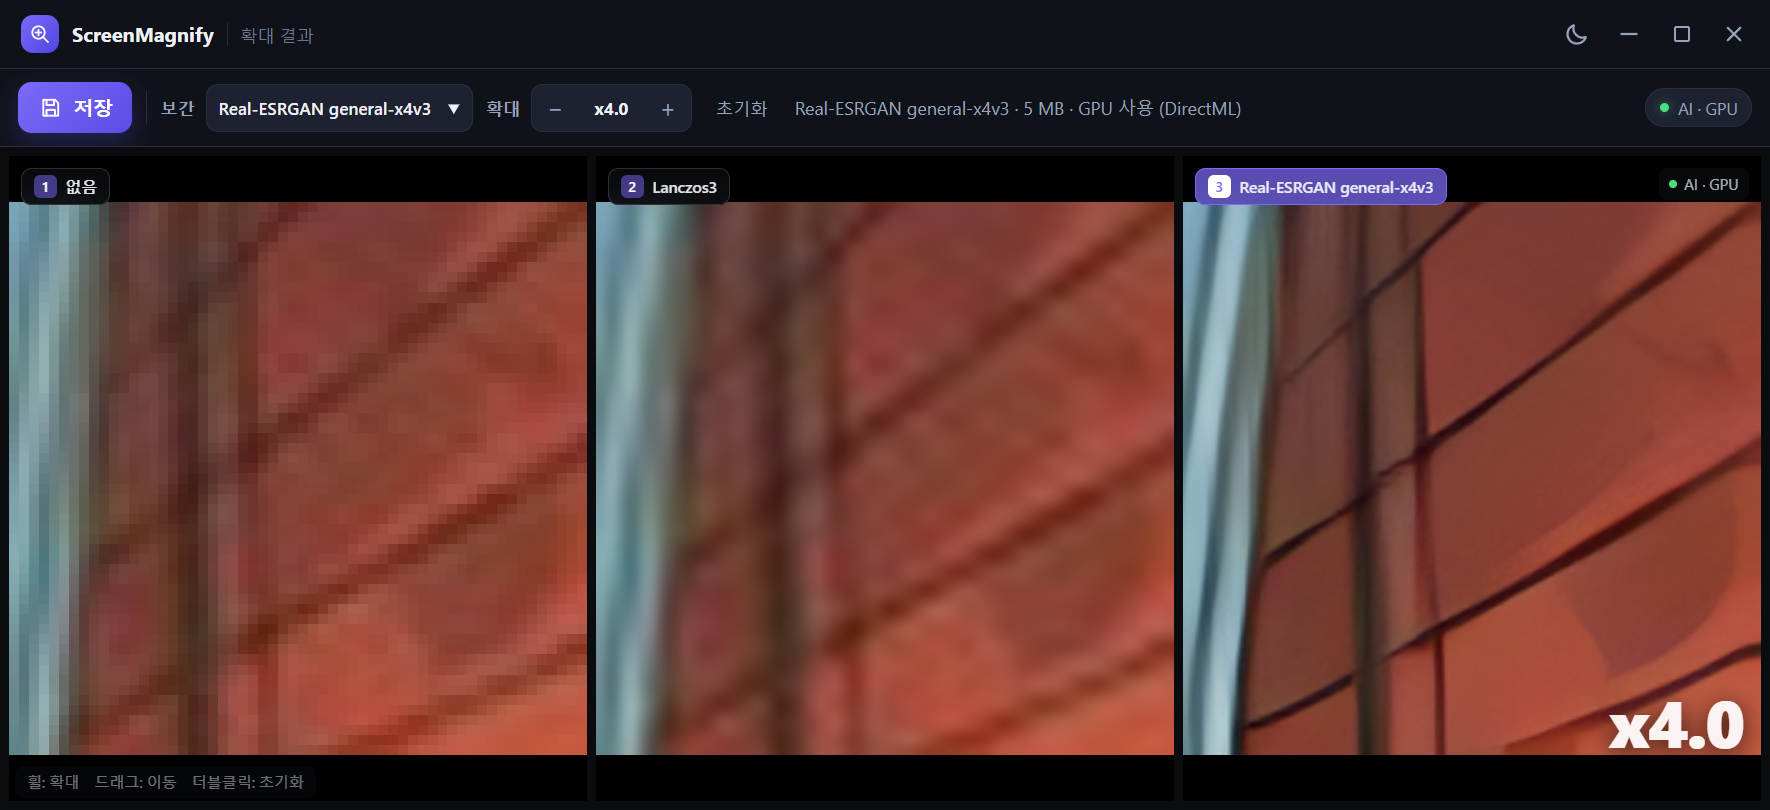
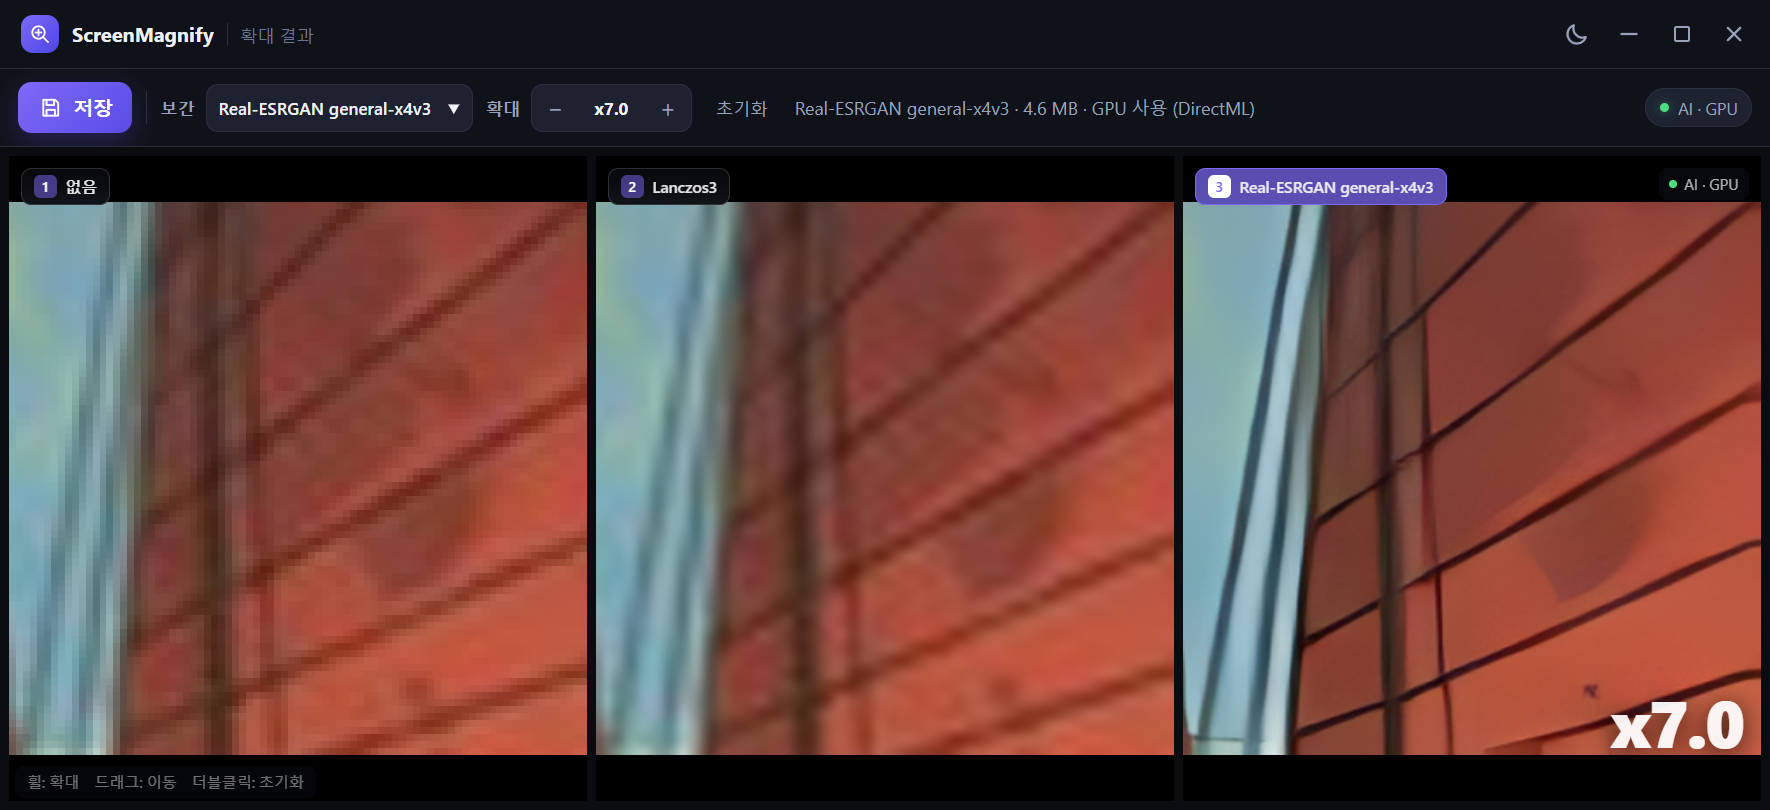
Show the real magnification instead of the relative zoom
The label said x1.0 even when the selection filled the window. It now shows
displayed pixels per original screen pixel (zoom x fit factor); the wheel,
buttons and keys step on the 0.5 grid up to x64 in that unit. Verified with a
1 px stripe screen: label x2.2, x2.5, x3.0 vs measured run 2.23, 2.50, 2.99.

diff --git a/public/js/result.js b/public/js/result.js
@@ -115,8 +115,21 @@
     return `x${value.toFixed(1)}`;
   }
 
+  // `zoom` is relative to the selection filling the panel (1 = fit). The shown magnification is what the user
+  // sees: displayed physical pixels per original screen pixel = fit factor x zoom.
+  function fitFactor() {
+    const panel = panels[active] || panels[0];
+    if (!panel || !base.w) return 1;
+    const content = contentRectCss(panel);
+    return content.w > 0 ? (content.w * (window.devicePixelRatio || 1)) / base.w : 1;
+  }
+
+  function magnification() {
+    return zoom * fitFactor();
+  }
+
   function updateZoomUI() {
-    const text = formatZoom(zoom);
+    const text = formatZoom(magnification());
     zoomValue.textContent = text;
     hud.textContent = text;
   }
@@ -226,9 +239,10 @@
     return clampZoom(value + dir * step);
   }
 
+  // `value` is a magnification (x0.5 to x64); the internal zoom is that divided by the fit factor.
   function setZoom(value) {
-    const next = clampZoom(value);
-    if (next === zoom) return;
+    const next = clampZoom(value) / fitFactor();
+    if (Math.abs(next - zoom) < 1e-9) return;
     zoom = next;
     getView();
     markViewChanged();
@@ -346,6 +360,7 @@
       panel.canvas.width = backingW;
       panel.canvas.height = backingH;
     }
+    updateZoomUI();
   }
 
   function createPanelElement(index, method) {
@@ -498,8 +513,8 @@
     lastWheelAt = now;
 
     const direction = event.deltaY < 0 ? 1 : -1;
-    const next = nextZoom(zoom, direction);
-    if (next === zoom) return;
+    const next = nextZoom(magnification(), direction) / fitFactor();
+    if (Math.abs(next - zoom) < 1e-9) return;
 
     const rect = panel.canvas.getBoundingClientRect();
     const content = contentRectCss(panel);
@@ -1197,8 +1212,8 @@
     });
 
     $('btn-save').addEventListener('click', openSaveDialog);
-    $('zoom-out').addEventListener('click', () => setZoom(nextZoom(zoom, -1)));
-    $('zoom-in').addEventListener('click', () => setZoom(nextZoom(zoom, 1)));
+    $('zoom-out').addEventListener('click', () => setZoom(nextZoom(magnification(), -1)));
+    $('zoom-in').addEventListener('click', () => setZoom(nextZoom(magnification(), 1)));
     $('zoom-reset').addEventListener('click', resetView);
     $('btn-retry').addEventListener('click', () => {
       hideError();
@@ -1295,10 +1310,10 @@
 
       if (event.key === '+' || event.key === '=') {
         event.preventDefault();
-        setZoom(nextZoom(zoom, 1));
+        setZoom(nextZoom(magnification(), 1));
       } else if (event.key === '-' || event.key === '_') {
         event.preventDefault();
-        setZoom(nextZoom(zoom, -1));
+        setZoom(nextZoom(magnification(), -1));
       } else if (event.key === '0') {
         event.preventDefault();
         resetView();

diff --git a/README.md b/README.md
@@ -17,7 +17,7 @@ The app text is Korean. The screenshots show a fake desktop (a sky wallpaper and
 
 - **Three ways to select.** Rectangle, ellipse or freehand. Hold **Shift** while dragging a rectangle or an ellipse for a 1:1 shape. **Esc** cancels.
 - **A still picture.** The screen is captured once when the result opens, and only the selected region (and its shape) is kept. Nothing outside the selection can be reached by panning or zooming out.
-- **Zoom x0.5 to x64.** Mouse wheel zooms around the pointer, drag pans, double-click resets. Steps are 0.5 up to x4, then 1, 2, 4 and 8 as you go higher. Zooming out below x1 shrinks the picture inside the window; the original aspect ratio is always kept.
+- **Zoom x0.5 to x64.** The number is the real magnification: how many times larger than on your screen the picture is shown (the selection starts at whatever fills the window, for example x3.4). Mouse wheel zooms around the pointer, drag pans, double-click resets. Steps are 0.5 up to x4, then 1, 2, 4 and 8 as you go higher. Zooming out far enough shrinks the picture inside the window; the original aspect ratio is always kept.
 - **Up to three panels.** Show the same region with different methods next to each other; click a panel to make it the active one (the one that is saved, and the one the AI works on).
 - **Methods.** None (nearest neighbour), Bilinear, Bicubic (Catmull-Rom), Lanczos3, NIS (NVIDIA Image Scaling) and three AI models run through ONNX Runtime:
   - **Real-ESRGAN general-x4v3** (4.9 MB, the default): sharp text and pictures, fast even on the CPU.

diff --git a/CLAUDE.md b/CLAUDE.md
@@ -40,7 +40,8 @@ When launching Electron from the Claude shell, unset `ELECTRON_RUN_AS_NODE` firs
 ## Key decisions
 
 - **One device switch.** `aiDevice` ('cpu' default, 'gpu') controls both the AI session and the filter path: GPU uses WebGL/DirectML, CPU uses the JS resampler and the CPU ONNX provider. It switches live (no restart). NIS is GPU-only (disabled on CPU; a saved NIS falls back to Lanczos3).
-- **A still picture, cropped.** The result captures one frame, then stops the stream and keeps only the selection (shape baked in as transparency). Zoom below x1 shrinks the picture; the aspect ratio is always the selection's.
+- **A still picture, cropped.** The result captures one frame, then stops the stream and keeps only the selection (shape baked in as transparency). Zoom below the fit size shrinks the picture; the aspect ratio is always the selection's.
+- **Magnification.** `zoom` in `result.js` is relative (1 = the selection fills the panel). The shown number is `magnification() = zoom * fitFactor()` (displayed physical px per original screen px); wheel, buttons and keys step in magnification (0.5 grid, max 64) and divide by `fitFactor()` to get `zoom`. `fitFactor` changes when the window is resized, so `resizePanel` refreshes the label.
 - **Redraw only on change.** `render()` keeps a key per panel; the AI runs once per view, not continuously, and waits at least as long as the last inference took (`lastAiMs`).
 - **Save = active panel.** Transparent outside the shape and outside the picture.
 
